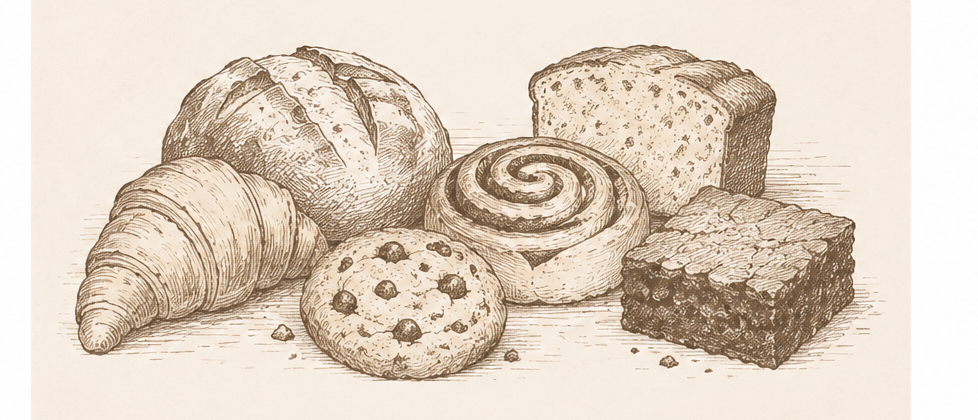
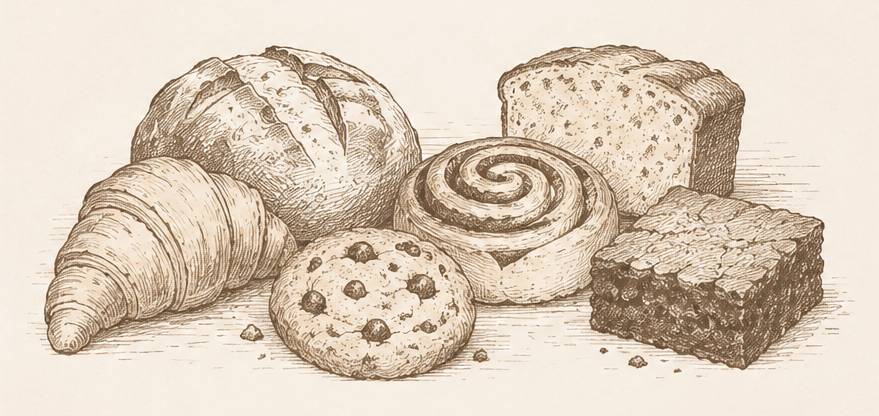
50 & Co bakery v2 with WhatsApp ordering cart

diff --git a/app/page.tsx b/app/page.tsx
@@ -643,20 +643,18 @@ const totalItems = cart.reduce((sum, item) => sum + item.quantity, 0);
       </div>
 
       <div className="rounded-[1.75rem] bg-[#fffaf2] p-3 shadow-2xl shadow-black/20">
-        <div className="overflow-hidden rounded-[1.25rem]">
-          <iframe
-            title="50 & Co. Bakery Map"
-            src="https://www.google.com/maps?q=New%20Solid%20Building%20123%20Jupiter%20Makati%20City&output=embed"
-            className="h-[320px] w-full border-0"
-            loading="lazy"
-            referrerPolicy="no-referrer-when-downgrade"
-          />
-        </div>
+  <div className="overflow-hidden rounded-[1.25rem]">
+   <img
+  src="/50andco-map-sketch.png"
+  alt="Map to 50 & Co. Bakery on Jupiter, Makati"
+  className="w-full rounded-[1.25rem]"
+/>
+  </div>
 
-        <p className="mt-3 text-center text-xs uppercase tracking-[0.25em] text-[#2f241d]/45">
-          New Solid Building · Jupiter, Makati
-        </p>
-      </div>
+  <p className="mt-3 text-center text-xs uppercase tracking-[0.25em] text-[#2f241d]/45">
+    50 & Co. Bakery · Jupiter, Makati
+  </p>
+</div>
     </div>
 
     <div className="bg-[#fffaf2] p-8 text-[#2f241d] md:p-12">